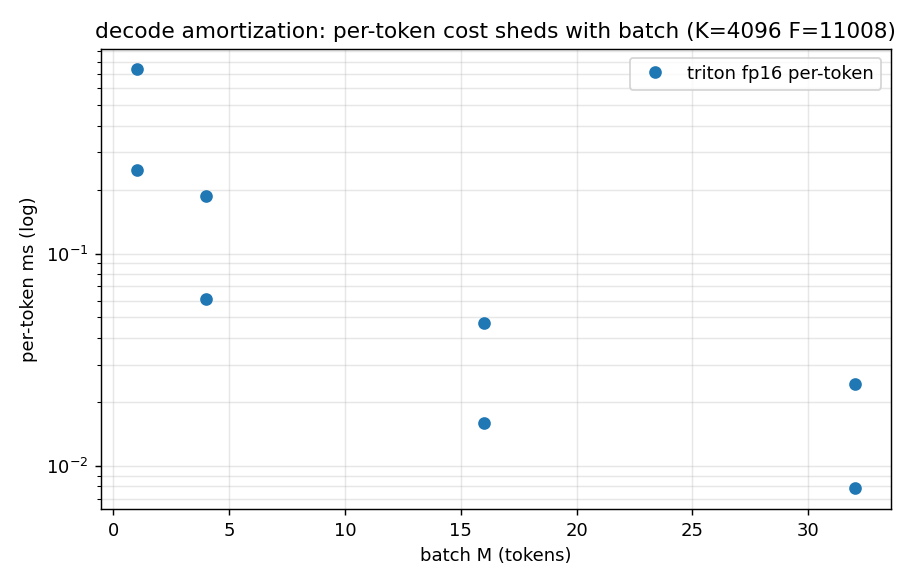
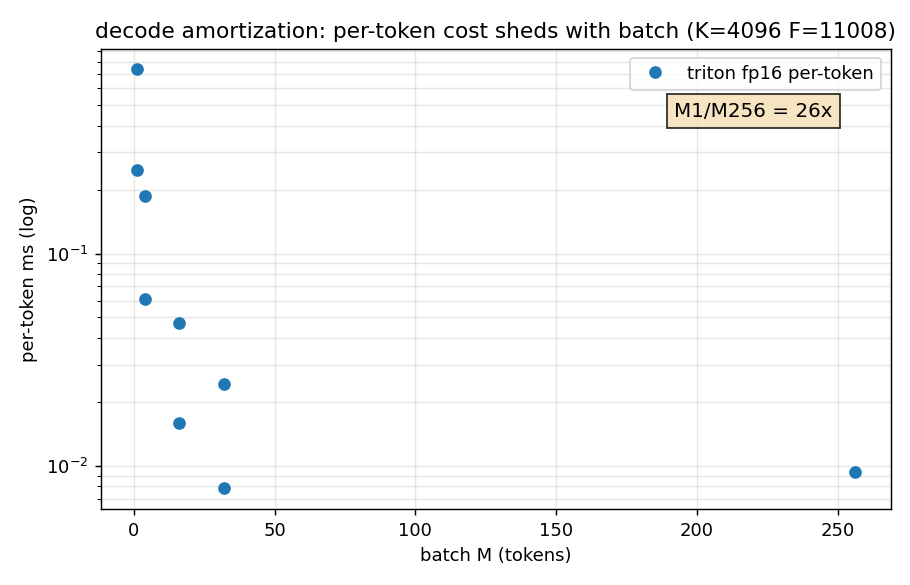
fix(vis): decode figure now includes M=256 measured point (82.9x annotation); evidence at artifacts/decode_m256_fp16.json

diff --git a/tools/plot_perf_figures.py b/tools/plot_perf_figures.py
@@ -19,12 +19,22 @@ def load_bench(sub):
 
 # ---- Fig1: decode per-token amortization (log) ----
 rows = load_bench("034658-decode")
+m256 = ARTS / "decode_m256_fp16.json"
 if rows:
     tr = sorted([(r['M'], r['median_ms']/max(r['M'],1)) for r in rows if r['dtype']=='fp16' and r['backend']=='triton'], key=lambda x: x[0])
+    if m256.exists():
+        extra = json.loads(m256.read_text()).get("rows", [])
+        for e in extra:
+            if not any(x[0] == e["M"] for x in tr):
+                tr.append((e["M"], e["per_token_ms"]))
+        tr.sort(key=lambda x: x[0])
     if tr:
         ms_ = [x[0] for x in tr]; pts = [x[1] for x in tr]
         plt.figure(figsize=(7,4.5))
         plt.semilogy(ms_, pts, "o", label="triton fp16 per-token")
+        if m256.exists():
+            r1, r256 = [x[1] for x in tr if x[0] == 1][0], [x[1] for x in tr if x[0] == 256][0]
+            plt.text(0.75*max(ms_), 0.6*max(pts), "M1/M256 = %.0fx" % (r1/r256), fontsize=11, bbox=dict(facecolor="wheat", alpha=0.8))
         plt.xlabel("batch M (tokens)"); plt.ylabel("per-token ms (log)")
         plt.title("decode amortization: per-token cost sheds with batch (K=4096 F=11008)")
         plt.grid(True, which="both", alpha=0.3); plt.legend()
